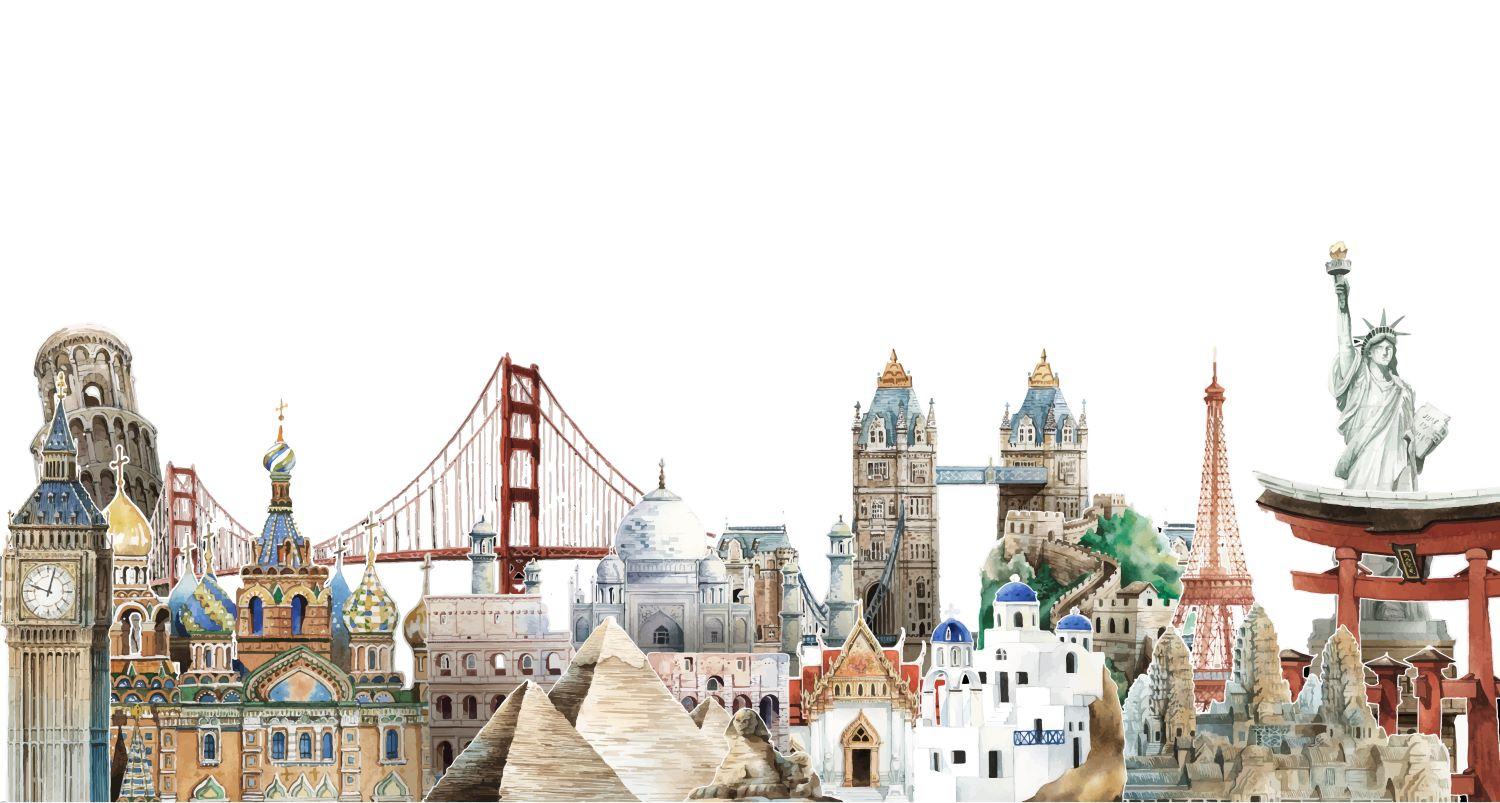
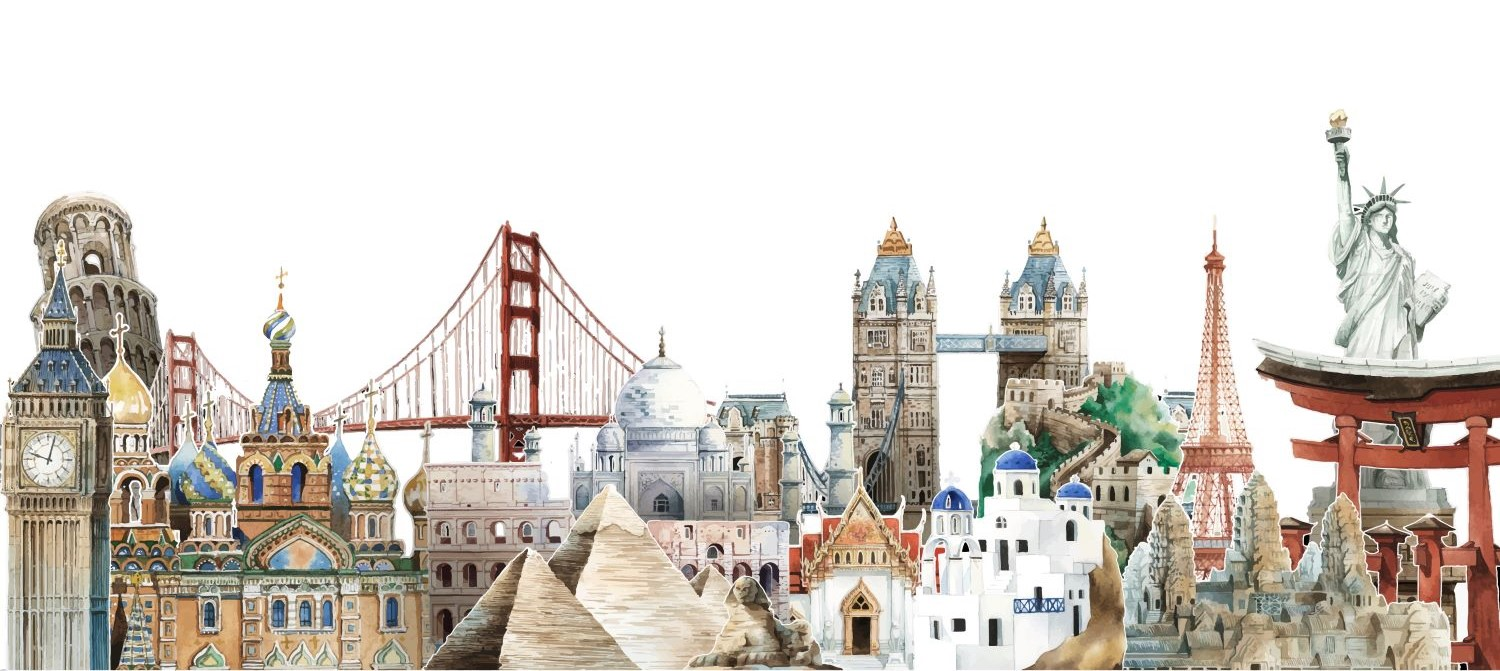
style chat room and forms

diff --git a/client/src/Components/SignUpForm/SignUpForm.js b/client/src/Components/SignUpForm/SignUpForm.js
@@ -48,23 +48,31 @@ export default function SignUpForm() {
       <div className='form-wrapper'>
         <h1>Create a Free Account</h1>
         <form className='form' onSubmit={handleSubmit}>
-          <label>
-            <p>First Name</p>
-            <input type='text' name='firstName' />
-          </label>
-          <label>
-            <p>Last Name</p>
-            <input type='text' name='lastName' />
-          </label>
-          <label>
-            <p>Username</p>
-            <input type='text' name='username' />
-          </label>
-          <label>
-            <p>Password</p>
-            <input type='password' name='password' />
-          </label>
-          <h5>Select your native language</h5>
+          <input
+            className='form-input'
+            type='text'
+            name='firstName'
+            placeholder='First Name'
+          />
+          <input
+            className='form-input'
+            type='text'
+            name='lastName'
+            placeholder='Last Name'
+          />
+          <input
+            className='form-input'
+            type='text'
+            name='username'
+            placeholder='User Name'
+          />
+          <input
+            className='form-input'
+            type='password'
+            name='password'
+            placeholder='Password'
+          />
+          <div className='form-label'>Select your native language</div>
           <select className='languages' name='nativeLanguage'>
             <option>Select Language</option>
             <option value='af'>Afrikaans</option>
@@ -186,7 +194,9 @@ export default function SignUpForm() {
             <option value='yo'>Yoruba - Èdè Yorùbá</option>
             <option value='zu'>Zulu - isiZulu</option>
           </select>
-          <h5>Select the language you would like to learn</h5>
+          <div className='form-label'>
+            Select the language you'd like to learn
+          </div>
           <select className='languages' name='learnLanguage'>
             <option>Select Language</option>
             <option value='af'>Afrikaans</option>

diff --git a/client/src/Components/ChatRoom/ChatRoom.css b/client/src/Components/ChatRoom/ChatRoom.css
@@ -2,13 +2,16 @@ body {
   margin: 0;
 }
 
-#header {
+.chat-header {
   display: flex;
-  background-color: #90a0b0;
-  height: 50px;
-  padding: 0px 10px;
+  background-color: #772e25;
   align-items: center;
   justify-content: center;
+  height: 75px;
+  color: #f6f2e9;
+  font-size: 40px;
+  font-weight: 700;
+  padding: 10px;
 }
 
 #translation-banner {
@@ -41,62 +44,33 @@ body {
 }
 
 .input-container {
-  max-height: 60%;
+  display: flex;
+  justify-content: center;
+  gap: 10px;
+  background-color: rgba(240, 240, 240, 0.8);
+
   /* display: flex; */
-  /* flex-direction: row; */
-  margin-top: auto;
-  padding: 15px 40px;
-  background: rgba(142, 181, 225, 0.4);
-  box-sizing: border-box;
+  /* justify-content: center; */
+  align-items: center;
+  height: 45vh;
+  /* gap: 20px; */
+  /* padding: 15px 40px; */
 }
 
-/* input {
-  background: rgb(255, 255, 255);
-  align-self: center;
-  width: 40%;
-  height: 100%;
-  margin: 0 10px 0 0;
-  padding: 0 20px;
-  border: 0;
-  border-radius: 15px;
-  outline: none;
-  color: #666;
-  font-size: 1em;
-  font-family: Calibri, 'Trebuchet MS', sans-serif;
-  height: 40px;
-} */
+#message-input {
+  height: 70px;
+  width: 300px;
+  border: 3px solid rgba(237, 221, 212, 0.6);
+  border-radius: 10px;
+}
 
-.send-button {
-  border-width: 0;
+.send {
   background: rgb(255, 255, 255);
   outline: none;
-  width: 10%;
+  width: 90px;
   height: 50px;
   display: inline-block;
   vertical-align: middle;
-  align-self: end;
-  color: rgb(127, 132, 148);
-  border-radius: 15px;
-}
-
-.send-button:hover {
-  background-color: rgb(192, 198, 222);
-  color: rgba(255, 255, 255);
-}
-
-.simple-keyboard {
-  display: none;
-  height: 380px;
-  width: auto;
-}
-
-@media only screen and (max-width: 600px) {
-  .send-button {
-    width: 20%;
-    min-width: 10px;
-  }
-
-  .input-container {
-    padding: 15px 20px;
-  }
+  border: 3px solid rgba(237, 221, 212, 0.6);
+  border-radius: 10px;
 }

diff --git a/client/src/Components/ChatRoom/ChatRoom.js b/client/src/Components/ChatRoom/ChatRoom.js
@@ -81,9 +81,14 @@ export default function ChatRoom() {
   }
 
   return (
-    <div className='container'>
-      <div id='header'>
-        <div className='user-name'>{otherUser}</div>
+    <div
+      className='container'
+      style={{
+        backgroundImage: `url(/landmarks-dash.jpg)`,
+      }}
+    >
+      <div className='chat-header'>
+        <div>{otherUser}</div>
       </div>
       {translation ? (
         <div id='translation-banner'>Translation: {translation}</div>
@@ -95,20 +100,15 @@ export default function ChatRoom() {
           );
         })}
       </div>
-      <form className='form' onSubmit={sendMessage}>
-        <div className='input-container'>
-          <div className='input'>
-            <input
-              id='message-input'
-              type='text'
-              name='text'
-              className='input-box'
-              placeholder='Message'
-            />
-          </div>
-        </div>
-        <button className='submit' type='submit'>
-          Submit
+      <form className='input-container' onSubmit={sendMessage}>
+        <input
+          id='message-input'
+          type='text'
+          name='text'
+          placeholder='Message'
+        />
+        <button className='send' type='submit'>
+          Send
         </button>
       </form>
     </div>

diff --git a/client/src/Components/LogInForm/LogInForm.js b/client/src/Components/LogInForm/LogInForm.js
@@ -30,19 +30,21 @@ export default function LogInForm() {
     <div className='form-screen'>
       <div className='form-wrapper'>
         <h1>Please Log In</h1>
-        <form className='form' onSubmit={handleSubmit}>
-          <label>
-            <p>Username</p>
-            <input type='text' name='userName' autoComplete='email' />
-          </label>
-          <label>
-            <p>Password</p>
-            <input
-              type='password'
-              name='password'
-              autoComplete='current-password'
-            />
-          </label>
+        <form className='login-form' onSubmit={handleSubmit}>
+          <input
+            className='form-input'
+            placeholder='User Name'
+            type='text'
+            name='userName'
+            autoComplete='email'
+          />
+          <input
+            className='form-input'
+            placeholder='Password'
+            type='password'
+            name='password'
+            autoComplete='current-password'
+          />
           <div>
             <button className='submit' type='submit'>
               Submit

diff --git a/client/src/Components/LandingPage/LandingPage.js b/client/src/Components/LandingPage/LandingPage.js
@@ -10,7 +10,12 @@ export default function LandingPage() {
 
   return (
     <LandingContext.Provider value={{ signUpOrLogin, setSignUpOrLogin }}>
-      <div id='landing-wrapper'>
+      <div
+        id='landing-wrapper'
+        style={{
+          backgroundImage: `url(/landmarks-dash.jpg)`,
+        }}
+      >
         <div className='header'>Lingua</div>
         <div id='landing-body'>
           <div id='left'>
@@ -19,7 +24,7 @@ export default function LandingPage() {
               <div id='landing-connect'>Connect</div>
               <div id='landing-learn'>Learn</div>
             </div>
-            <img id='landing-image' src='/landmarks-short.jpg'></img>
+            {/* <img id='landing-image' src='/landmarks-dash.jpg'></img> */}
           </div>
           <div id='form'>
             {signUpOrLogin == 'signUp' ? <SignUpForm /> : <LogInForm />}

diff --git a/client/src/Components/SignUpForm/Forms.css b/client/src/Components/SignUpForm/Forms.css
@@ -4,10 +4,11 @@
   flex-direction: column;
   align-items: center;
   justify-content: center;
-  background-color: #f6f2e9;
-  height: 93.5vh;
+  background: rgba(237, 221, 212, 0.8);
+  height: 88vh;
   width: 400px;
   z-index: 10;
+  box-sizing: border-box;
 }
 
 .form {
@@ -17,16 +18,30 @@
   justify-content: space-around;
 }
 
+.form-input {
+  width: 250px;
+  padding: 10px;
+  border-radius: 10px;
+  border: none;
+  border-bottom: 1px solid #1e1d1d;
+}
+
 .submit {
   margin-top: 10px;
 }
 
 .other-form {
   display: flex;
-  margin-top: 10px;
-  gap: 10px;
+  margin-bottom: 20px;
 }
 
 .notValid {
   margin-top: 20px;
+}
+
+.login-form {
+  display: flex;
+  flex-direction: column;
+  height: 150px;
+  justify-content: space-around;
 }

diff --git a/client/src/Components/Message/Message.css b/client/src/Components/Message/Message.css
@@ -10,12 +10,13 @@
 }
 
 .them {
-  background: #dbebff;
   width: fit-content;
+  background-color: rgba(237, 221, 212, 0.5);
 }
 
 .me {
-  background: #a2cae6;
+  background: rgba(237, 221, 212);
+
   align-self: flex-end;
 }
 

diff --git a/client/src/Components/LandingPage/LandingPage.css b/client/src/Components/LandingPage/LandingPage.css
@@ -1,12 +1,12 @@
 #landing-body {
   display: flex;
 }
-#landing-image {
+/* #landing-image {
   width: 880px;
   position: absolute;
   bottom: 0px;
   z-index: 1;
-}
+} */
 
 #left {
   display: flex;
